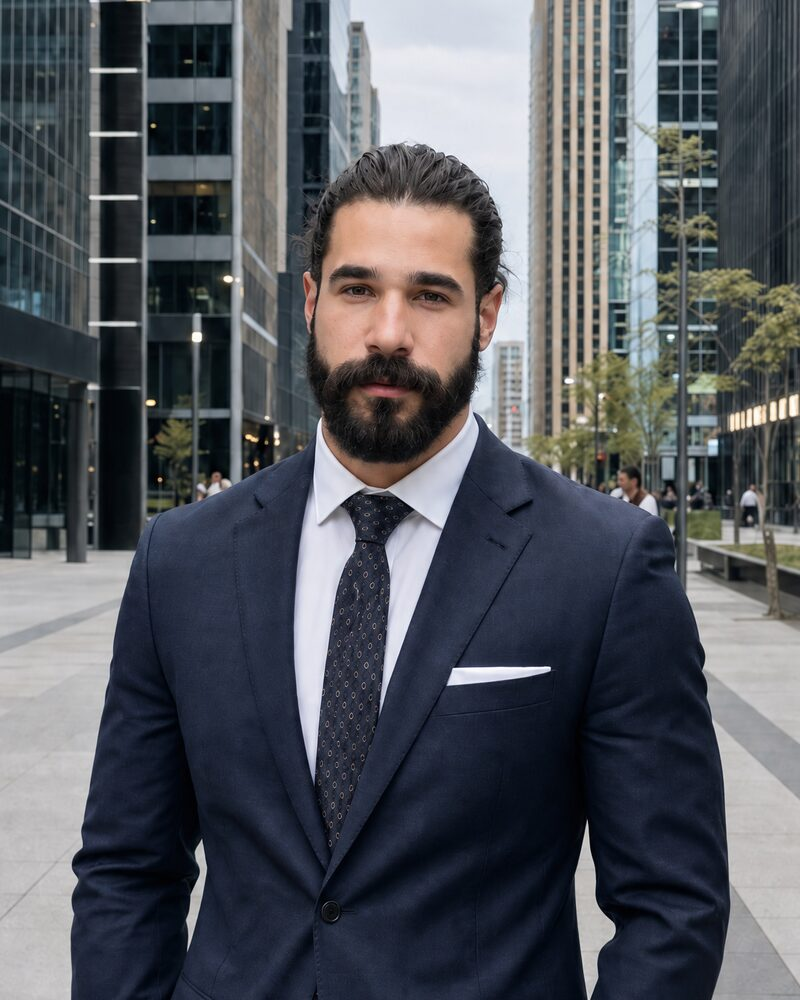
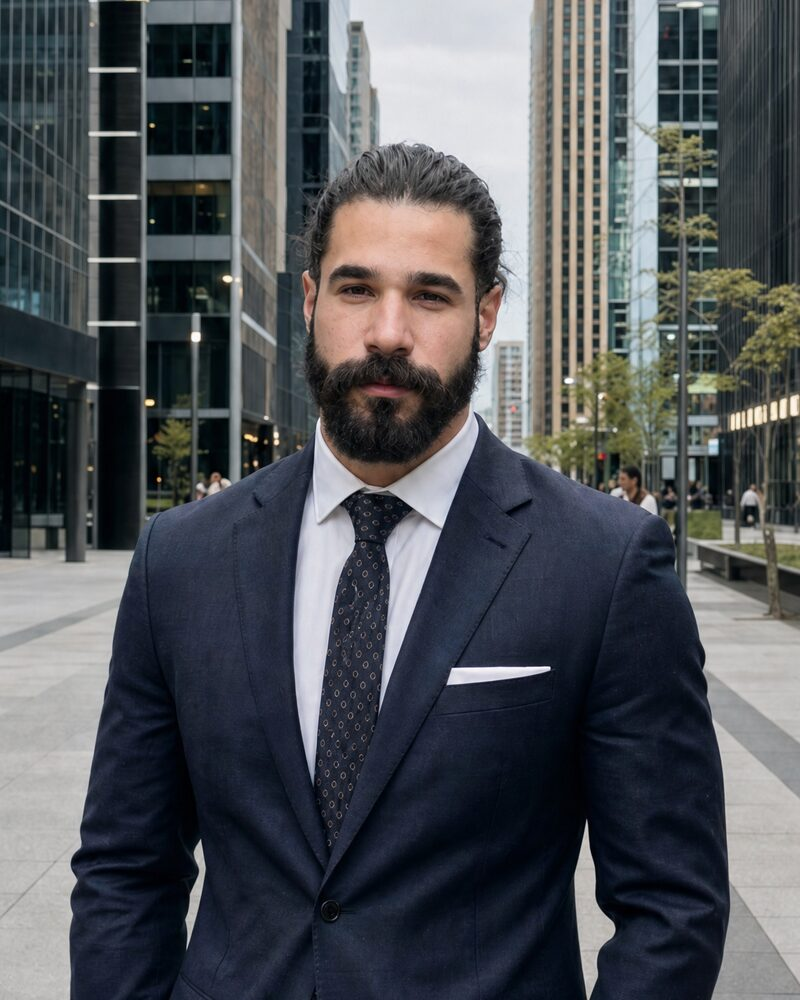
Swap founder photo and add LinkedIn link

diff --git a/src/config.ts b/src/config.ts
@@ -13,10 +13,12 @@ export const NAV = [
 ];
 
 // The about page's founder block; the photo is a 4:5 crop in public/.
+// Placeholder: the LinkedIn link shows once linkedin holds the profile URL.
 export const FOUNDER = {
   name: 'Aleksandar Radovic',
   role: 'Founder and AI engineer',
   photo: '/founder.jpg',
+  linkedin: '',
   certs: ['Anthropic', 'Microsoft', 'Amazon Web Services'],
 };
 
